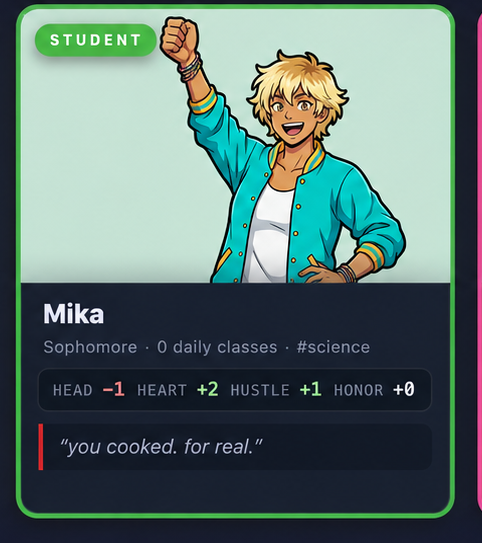
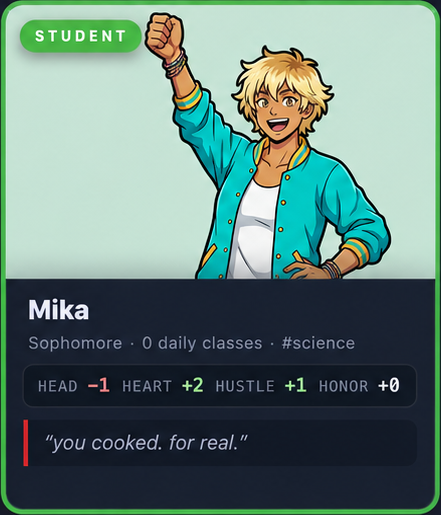
Fix Ruby High student card crops

Changed region(s): [[0.0, 0.0, 1.0, 1.0]]

diff --git a/src/__tests__/viewer-regression.test.ts b/src/__tests__/viewer-regression.test.ts
@@ -150,7 +150,7 @@ describe("viewer regression guardrails", () => {
     expectScriptToContain(script, "function hallPassCardNftImageUrl(card)");
     expectScriptToContain(script, "Opening pack and minting card NFTs...");
     expectScriptToContain(script, 'const PACK_NFT_ART_URL = apiBase + "/assets/nft/ruby-high-pack.png?v=pack-nft-v2"');
-    expectScriptToContain(script, 'const CARD_NFT_ART_VERSION = "card-v1"');
+    expectScriptToContain(script, 'const CARD_NFT_ART_VERSION = "card-v2"');
     expectScriptToContain(script, "const HALL_PASS_CARDS_PER_PACK = 5");
     expectScriptToContain(script, "function showPackMintProgress(message)");
     expectScriptToContain(script, "Please wait: minting pack");

diff --git a/src/services/hall-pass-nfts.ts b/src/services/hall-pass-nfts.ts
@@ -31,6 +31,7 @@ const BASE58_INDEX = new Map(BASE58_ALPHABET.split("").map((char, index) => [cha
 const DEFAULT_PUBLIC_BASE_URL = "https://ruby-high.ai";
 const DEFAULT_SOLANA_RPC_URL = "https://api.mainnet-beta.solana.com";
 const DEFAULT_SYMBOL = "RUBY";
+const CARD_IMAGE_VERSION = "card-v2";
 
 type HallPassNftProfile = {
   name: string;
@@ -568,7 +569,7 @@ function hallPassNftProfile(characterId: string): HallPassNftProfile {
 }
 
 function versionedImagePath(path: string): string {
-  return `${path}${path.includes("?") ? "&" : "?"}v=card-v1`;
+  return `${path}${path.includes("?") ? "&" : "?"}v=${CARD_IMAGE_VERSION}`;
 }
 
 function normalizeSerial(serial: string): string {

diff --git a/src/viewer-parts/client.ts b/src/viewer-parts/client.ts
@@ -463,7 +463,7 @@ export function runViewerClient(bootstrap) {
   const PACK_NFT_ART_URL = apiBase + "/assets/nft/ruby-high-pack.png?v=pack-nft-v2";
   const ITEM_CARD_SHEET_URL = apiBase + "/assets/nft/ruby-high-item-cards.png";
   const LOCATION_CARD_SHEET_URL = apiBase + "/assets/nft/ruby-high-location-cards.png";
-  const CARD_NFT_ART_VERSION = "card-v1";
+  const CARD_NFT_ART_VERSION = "card-v2";
   const CARD_NFT_IMAGE_IDS = [
     "lyra", "sami", "ravi", "indra", "mika", "noor",
     "ruby", "sally-science", "professor-edward", "captain-null", "eliza", "rati",

diff --git a/src/__tests__/nft-routes.test.ts b/src/__tests__/nft-routes.test.ts
@@ -127,7 +127,7 @@ describe("Hall Pass NFT routes", () => {
     expect(lastResponse?.body).toMatchObject({
       name: "Lyra Ruby High Card #123456",
       symbol: "RUBY",
-      image: "https://ruby-high.ai/api/apps/ruby-high/assets/nft/cards/lyra.png?v=card-v1",
+      image: "https://ruby-high.ai/api/apps/ruby-high/assets/nft/cards/lyra.png?v=card-v2",
     });
     expect(lastResponse?.body.attributes).toContainEqual({ trait_type: "Rarity", value: "Common" });
   });
